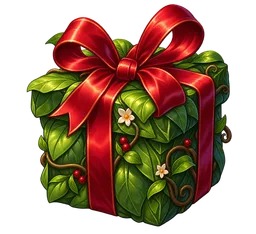
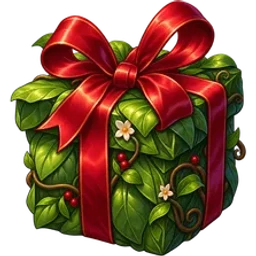
fix(arte): presente e kit de embrulho viram sprites quadrados
São ícones de item e de botão, então precisam de moldura quadrada — o kit vinha
em 3:2 e ficava com faixas vazias nas laterais dos slots, com peso visual
diferente dos vizinhos.

Recorte pelo bounding box do alpha (tira a margem vazia), preenchimento até o
quadrado com transparência e só então o resize para 256×256. A ordem importa: o
sharp aplica `extend` DEPOIS do `resize`, então fazer os três na mesma pipeline
devolvia 273×256 e 256×317 — precisou de um buffer intermediário.

Todos os usos passaram a ter width == height: 36 nos slots da mochila, 34 no
canteiro, 48 no card da loja (igual aos irmãos seed/shovel/backpack), 18 na
linha de missão e 92/104/118 nos modais de presente.

Guardei as versões pré-corte em public/imgs/_archive/*-source.webp, seguindo a
convenção que já existia ali. São a melhor fonte disponível: os PNGs originais
foram apagados por mim na conversão anterior, antes de virarem arquivo.

diff --git a/src/components/InventoryPanel.tsx b/src/components/InventoryPanel.tsx
@@ -73,7 +73,7 @@ function WrappedPlantSlot({ item, onOpenActions }: { item: InventoryItem; onOpen
       className="relative flex flex-col items-center justify-center gap-0.5 w-full h-full bg-rose-200/50 border border-rose-400/50 rounded-xl transition-transform active:scale-95"
       title={item.label ? `Presente: ${item.label}` : 'Planta embrulhada — toque para ver as opções'}
     >
-      <Image src="/imgs/presente.webp" alt="presente" width={34} height={31} className="object-contain pointer-events-none" draggable={false} />
+      <Image src="/imgs/presente.webp" alt="presente" width={36} height={36} className="object-contain pointer-events-none" draggable={false} />
       <span className="text-rose-700 text-[8px] font-bold pointer-events-none">Opções</span>
 
       {/* Marca de etiqueta preenchida — o texto em si vive no modal */}
@@ -133,7 +133,7 @@ function AnimatingSlot({ phase, rarity }: { phase: OpenPhase; rarity: Rarity }) 
         {phase === 'exploding' && (
           <div className="absolute inset-0 rounded-xl" style={{ animation: 'gift-flash 0.3s ease-in-out' }} />
         )}
-        <Image src="/imgs/presente.webp" alt="presente" width={34} height={31} className="object-contain" draggable={false} />
+        <Image src="/imgs/presente.webp" alt="presente" width={36} height={36} className="object-contain" draggable={false} />
       </div>
     );
   }
@@ -234,7 +234,7 @@ function SlotContent({
   if (item.item_type === 'wrapping_kit') {
     return (
       <div className="flex flex-col items-center justify-center gap-0.5 w-full h-full bg-rose-200/50 border border-rose-400/50 rounded-xl">
-        <Image src="/imgs/kit-de-embrulho.webp" alt="kit de embrulho" width={38} height={25} className="object-contain" draggable={false} />
+        <Image src="/imgs/kit-de-embrulho.webp" alt="kit de embrulho" width={36} height={36} className="object-contain" draggable={false} />
         <span className="text-rose-700 text-[9px] font-bold">×{item.quantity}</span>
       </div>
     );

diff --git a/src/components/GiftReceiveModal.tsx b/src/components/GiftReceiveModal.tsx
@@ -143,7 +143,7 @@ export function GiftReceiveModal({
 
               {/* Presente animado */}
               <div style={{ animation: 'gift-shake 1.2s ease-in-out infinite' }}>
-                <Image src="/imgs/presente.webp" alt="presente" width={104} height={95} className="object-contain" draggable={false} />
+                <Image src="/imgs/presente.webp" alt="presente" width={104} height={104} className="object-contain" draggable={false} />
               </div>
 
               {gift.message && (
@@ -181,7 +181,7 @@ export function GiftReceiveModal({
           {phase === 'opening' && (
             <div className="flex flex-col items-center gap-4 py-8">
               <div style={{ animation: 'gift-explode 0.8s ease-out forwards' }}>
-                <Image src="/imgs/presente.webp" alt="presente" width={118} height={108} className="object-contain" draggable={false} />
+                <Image src="/imgs/presente.webp" alt="presente" width={118} height={118} className="object-contain" draggable={false} />
               </div>
               <p className="text-sm" style={{ color: 'rgba(232,213,160,0.6)', fontFamily: 'var(--font-caption)', fontStyle: 'italic' }}>
                 Abrindo presente...

diff --git a/src/app/loja/page.tsx b/src/app/loja/page.tsx
@@ -249,7 +249,7 @@ export default function LojaPage() {
                       ) : product.id === 'shovel' ? (
                         <Image src="/imgs/shovel.webp" alt="pá" width={48} height={48} className="object-contain w-12 h-12" />
                       ) : product.id === 'wrapping_kit' ? (
-                        <Image src="/imgs/kit-de-embrulho.webp" alt="kit de embrulho" width={64} height={43} className="object-contain w-16 h-auto" />
+                        <Image src="/imgs/kit-de-embrulho.webp" alt="kit de embrulho" width={48} height={48} className="object-contain w-12 h-12" />
                       ) : product.id === 'backpack_slot' ? (
                         <Image src="/imgs/backpack-open.webp" alt="mochila" width={48} height={48} className="object-contain w-12 h-12" />
                       ) : (

diff --git a/src/components/GiftActionsModal.tsx b/src/components/GiftActionsModal.tsx
@@ -86,7 +86,7 @@ export function GiftActionsModal({
 
         <div className="overflow-y-auto">
           <div className="text-center py-3">
-            <Image src="/imgs/presente.webp" alt="presente" width={92} height={84} className="object-contain mx-auto select-none" draggable={false} />
+            <Image src="/imgs/presente.webp" alt="presente" width={92} height={92} className="object-contain mx-auto select-none" draggable={false} />
             <p
               className="text-[12px] mt-1"
               style={{ fontFamily: 'var(--font-caption)', fontStyle: 'italic', color: 'var(--color-text-muted)' }}

diff --git a/src/components/GiftSendModal.tsx b/src/components/GiftSendModal.tsx
@@ -62,7 +62,7 @@ export function GiftSendModal({
           }}
           onClick={(e) => e.stopPropagation()}
         >
-          <Image src="/imgs/presente.webp" alt="presente" width={92} height={84} className="object-contain" draggable={false} />
+          <Image src="/imgs/presente.webp" alt="presente" width={92} height={92} className="object-contain" draggable={false} />
           <h2 className="text-xl font-black" style={{ fontFamily: 'var(--font-display)', color: 'var(--color-text-light)' }}>
             Presente enviado!
           </h2>

diff --git a/src/components/Garden.tsx b/src/components/Garden.tsx
@@ -1490,7 +1490,7 @@ export default function Garden() {
               }}
               onClick={(e) => { e.stopPropagation(); handlePotClick(pot)(e); }}
             >
-              <Image src="/imgs/presente.webp" alt="presente" width={34} height={31} className="object-contain" draggable={false} />
+              <Image src="/imgs/presente.webp" alt="presente" width={34} height={34} className="object-contain" draggable={false} />
             </div>
           );
         })}

diff --git a/src/app/missoes/page.tsx b/src/app/missoes/page.tsx
@@ -26,7 +26,7 @@ function RewardLabel({ mission }: { mission: MissionView }) {
   }
   return (
     <>
-      <Image src="/imgs/kit-de-embrulho.webp" alt="" width={22} height={15} className="object-contain" /> Kit de embrulho
+      <Image src="/imgs/kit-de-embrulho.webp" alt="" width={18} height={18} className="object-contain" /> Kit de embrulho
     </>
   );
 }
